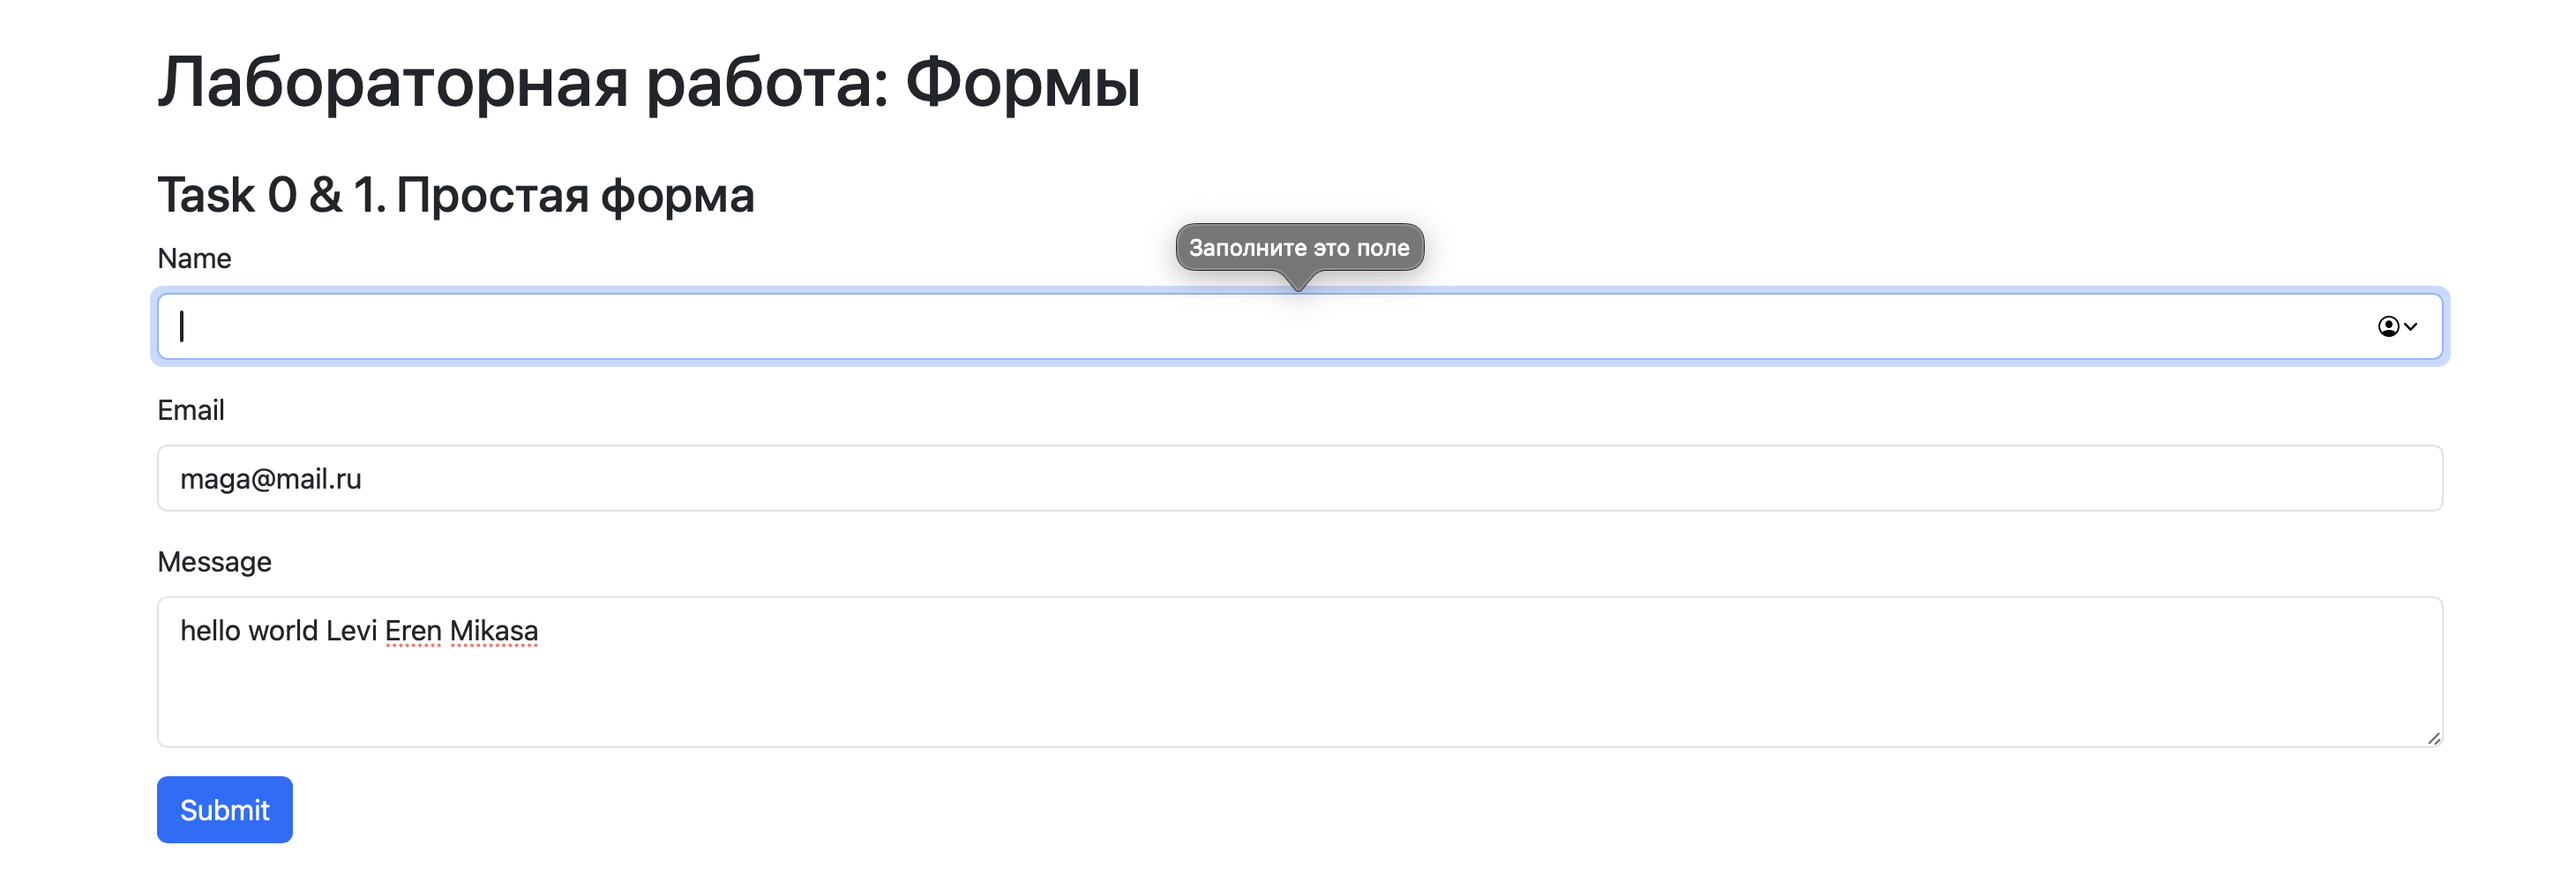
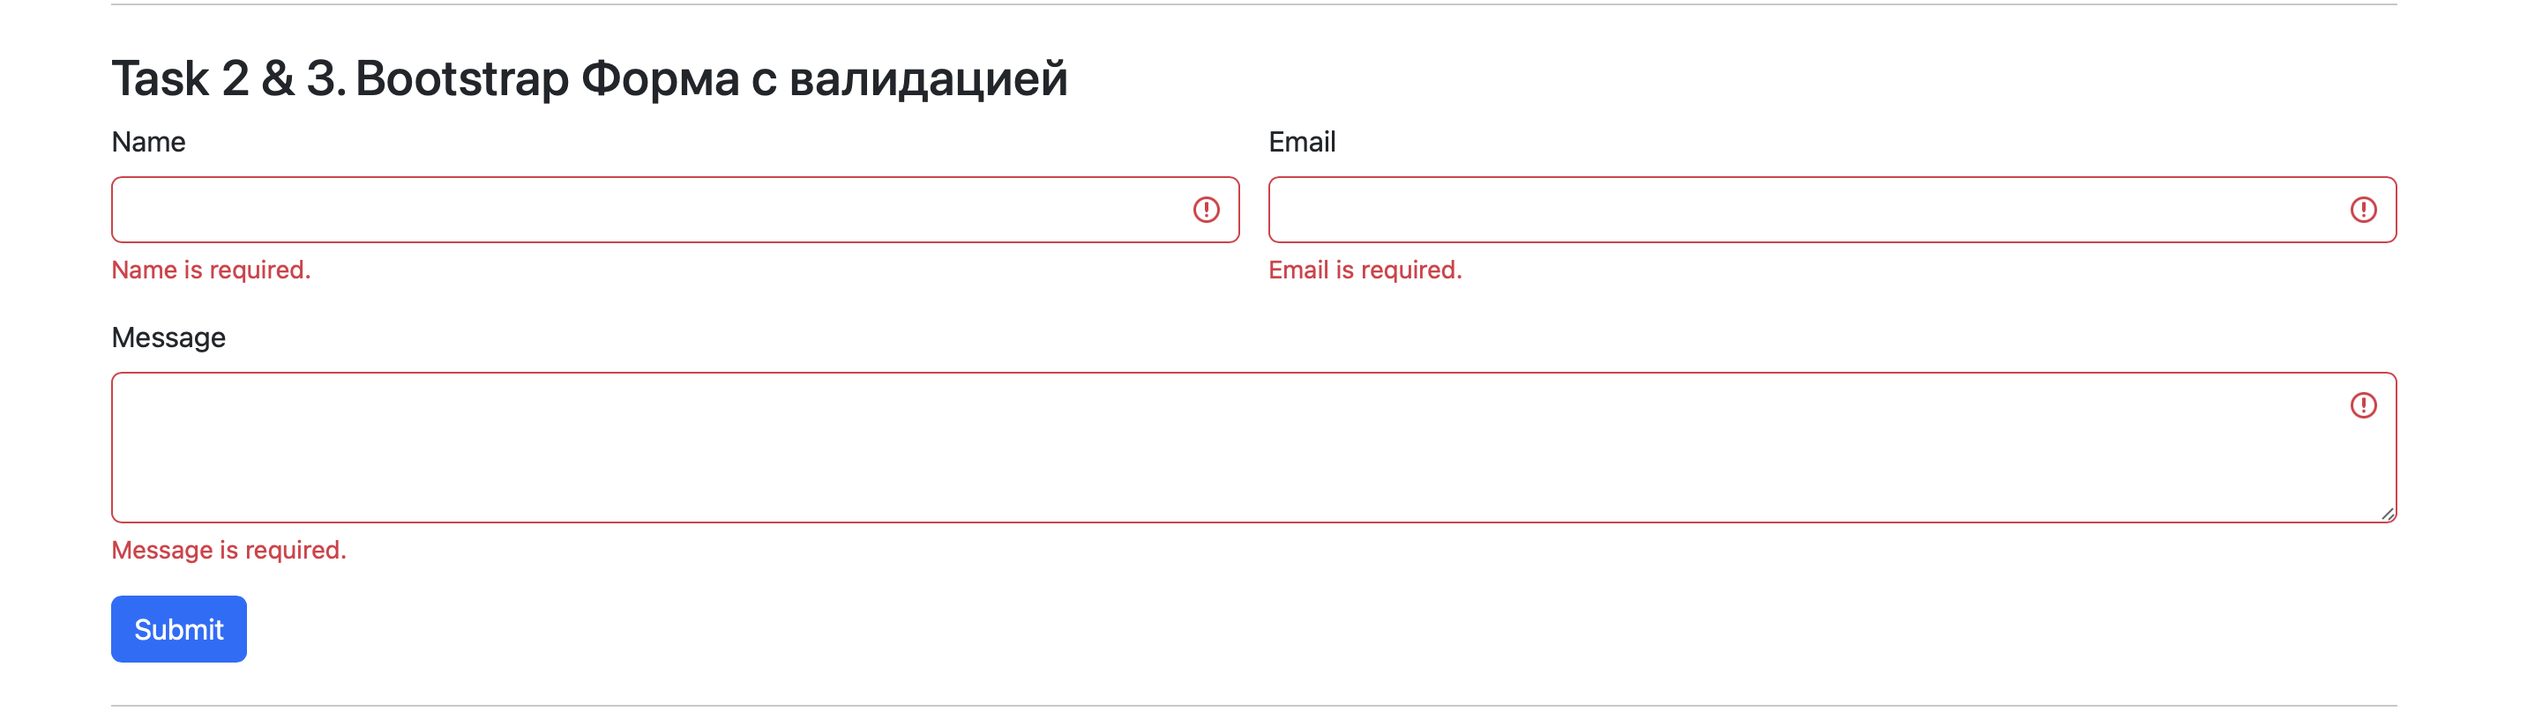
gfsgs

diff --git a/index.html b/index.html
@@ -3,14 +3,14 @@
 <head>
   <meta charset="UTF-8">
   <meta name="viewport" content="width=device-width, initial-scale=1.0">
-  <title>Лабораторная работа: Формы</title>
+  <title>Maga Lab Work</title>
   <link href="https://cdn.jsdelivr.net/npm/bootstrap@5.3.0/dist/css/bootstrap.min.css" rel="stylesheet">
 </head>
 <body>
-  
+
 <div class="container mt-4">
-  <h1>Лабораторная работа: Формы</h1>
-  <h3 class="mt-4">Task 0 & 1. Простая форма</h3>
+  <h1>Lab Work: Forms from Maga</h1>
+  <h3 class="mt-4">Task 0 & 1. simple form</h3>
   <form>
     <div class="mb-3">
       <label for="basicName" class="form-label">Name</label>
@@ -28,7 +28,7 @@
   </form>
 
   <hr class="my-4">
-  <h3>Task 2 & 3. Bootstrap Форма с валидацией</h3>
+  <h3>Task 2 & 3. Bootstrap form with validation</h3>
   <form class="row g-3 needs-validation" novalidate>
     <div class="col-md-6">
       <label for="btName" class="form-label">Name</label>
@@ -40,12 +40,12 @@
       <label for="btEmail" class="form-label">Email</label>
       <input type="email" class="form-control" id="btEmail" required>
       <div class="valid-feedback">Looks good!</div>
-      <div class="invalid-feedback">Email is required.</div>
+      <div class="invalid-feedback">Email is required</div>
     </div>
     <div class="col-12">
       <label for="btMessage" class="form-label">Message</label>
       <textarea class="form-control" id="btMessage" rows="3" required></textarea>
-      <div class="invalid-feedback">Message is required.</div>
+      <div class="invalid-feedback">Message is required</div>
     </div>
     <div class="col-12">
       <button class="btn btn-primary" type="submit">Submit</button>
@@ -57,27 +57,27 @@
     <div class="col-md-6">
       <label for="regFirstName" class="form-label">First Name</label>
       <input type="text" class="form-control" id="regFirstName" required>
-      <div class="invalid-feedback">Required field.</div>
+      <div class="invalid-feedback">Required field</div>
     </div>
     <div class="col-md-6">
       <label for="regLastName" class="form-label">Last Name</label>
       <input type="text" class="form-control" id="regLastName" required>
-      <div class="invalid-feedback">Required field.</div>
+      <div class="invalid-feedback">Required field</div>
     </div>
     <div class="col-12">
       <label for="regEmail" class="form-label">Email</label>
       <input type="email" class="form-control" id="regEmail" required>
-      <div class="invalid-feedback">Enter valid email.</div>
+      <div class="invalid-feedback">Enter valid email</div>
     </div>
     <div class="col-md-6">
       <label for="regPassword" class="form-label">Password</label>
       <input type="password" class="form-control" id="regPassword" minlength="6" required>
-      <div class="invalid-feedback">Minimum 6 characters.</div>
+      <div class="invalid-feedback">Minimum 6 characters</div>
     </div>
     <div class="col-md-6">
       <label for="regConfirmPassword" class="form-label">Confirm Password</label>
       <input type="password" class="form-control" id="regConfirmPassword" required>
-      <div class="invalid-feedback">Passwords must match.</div>
+      <div class="invalid-feedback">Passwords must match</div>
     </div>
     <div class="col-12">
       <label class="form-label d-block">Gender</label>
@@ -113,7 +113,7 @@
         <option value="RU">Russia</option>
         <option value="US">USA</option>
       </select>
-      <div class="invalid-feedback">Select a country.</div>
+      <div class="invalid-feedback">Select a country</div>
     </div>
     <div class="col-12 mt-3 mb-5">
       <button class="btn btn-primary" type="submit">Submit</button>

diff --git a/README.md b/README.md
@@ -8,7 +8,6 @@
 
 In this assignment, I created different forms using HTML and Bootstrap.
 I used HTML5 validation to check user input and Bootstrap to make the forms look better.
-
 The project contains 5 tasks divided into 3 parts.
 
 ## Part 1. Basic HTML Forms
@@ -16,24 +15,16 @@ The project contains 5 tasks divided into 3 parts.
 ### Task 0. Simple Contact Form
 
 I created a simple contact form using HTML.
-
-The form has:
-- Name input
-- Email input
-- Message textarea
-- Submit button
-
+The form has: Name input and Email input and  Message textarea and Submit button
 I also used labels for each input field.
 
 ### Task 1. HTML5 Validation
 
-I added HTML5 validation to the contact form.
-
+I added HTML5 validation to the contact form
 I used:
 - required - makes the field required
 - type="email" - checks email format
 - maxlength="200" - limits the message to 200 characters
-
 The browser checks the fields when the user clicks Submit.
 
 ### Screenshot - Task 0 & Task 1
@@ -46,30 +37,27 @@ The browser checks the fields when the user clicks Submit.
 ### Task 2. Bootstrap Form Styling
 
 I created another contact form using Bootstrap.
-
 I used:
 - form-control for input fields
 - form-label for labels
 - row and col-md-6 for layout
 - btn btn-primary for the Submit button
-
 Bootstrap helps make the form responsive.
 
 ### Task 3. Bootstrap Validation
 
-I added Bootstrap validation to the form.
-
+I added Bootstrap validation to the form
 I used:
 - needs-validation
 - valid-feedback
 - invalid-feedback
 - was-validated
 
-I also used JavaScript to check the form when the Submit button is clicked.
+I also used JavaScript to check the form when the Submit button is clicked
+If the input is empty or incorrect, the form shows an error message
+If the input is correct, it shows a success message
 
-If the input is empty or incorrect, the form shows an error message.
-
-If the input is correct, it shows a success message.
+! (screenshots/valid.png)
 
 ### Screenshot - Task 2 & Task 3
 
@@ -82,11 +70,10 @@ If the input is correct, it shows a success message.
 
 I created a registration form using HTML and Bootstrap.
 The form includes First Name; Last Name;Email;Password; Confirm Password; Gender or radio button; Hobbies(checkboxes); Country (dropdown list)
-; Submit button
-; Reset button
+Submit button
+Reset button
 
-I used Bootstrap Grid to arrange the fields.
-
+I used Bootstrap Grid to arrange the fields and 
 I also added validation:
 - Required fields cannot be empty
 - Email must have a valid format
@@ -102,20 +89,10 @@ The Reset button clears the form.
 
 ## Work Process
 
-First, I created a simple HTML contact form with input fields and labels.
-
-Then I added HTML5 validation using required, type and maxlength.
-
-After that, I used Bootstrap classes to style the second contact form and make it responsive.
-
-Next, I added validation messages using Bootstrap and JavaScript.
-
-Finally, I created a registration form with different input types, validation and Submit and Reset buttons.
-
-I tested the forms in my browser.
+First, I created a simple HTML contact form with input fields and labels.Then I added HTML5 validation using required, type and maxlength.After that, I used Bootstrap classes to style the second contact form and make it responsive.Next, I added validation messages using Bootstrap and JavaScript.
+Finally, I created a registration form with different input types, validation and Submit and Reset buttons
+I tested the forms in my browser
 
 ## Conclusion
 
-In this assignment, I learned how to create HTML forms, use different input types and add validation.
-
-I also learned how to use Bootstrap to style forms and make them responsive.
+In this assignment, I learned how to create HTML forms, use different input types and add validation and I also learned how to use Bootstrap to style forms and make them responsive.It was very useful
